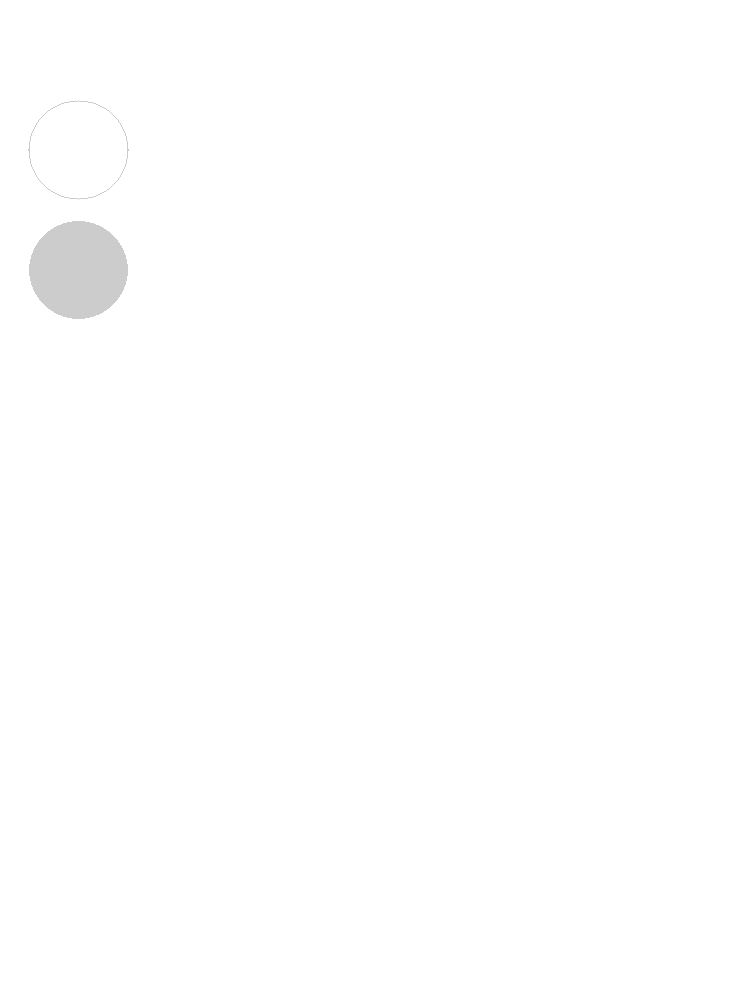
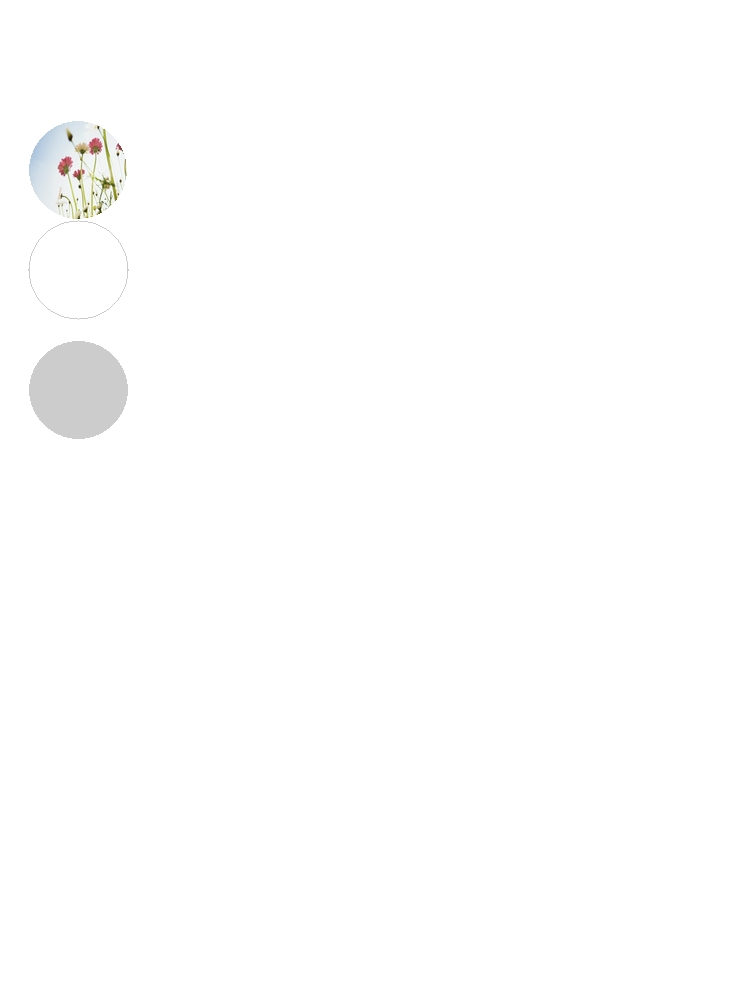
add image circle support

Changed region(s): [[0.0307, 0.093, 0.184, 0.465]]

diff --git a/examples/example3/example.html b/examples/example3/example.html
@@ -7,9 +7,11 @@
                 font-size: 15px;
             }
             img.project_logo {
-                width:100%;
-                margin-top:0;
-                margin-left:0;
+                width:100px;
+                height: 100px;
+                margin-top:20px;
+                border-radius: 350px;
+                border: 1px solid #ccc;
             }
             .content {
                 margin: 100px 28px;
@@ -31,6 +33,8 @@
     </head>
     <body>
         <div class="content">
+            <img src="http://pic17.nipic.com/20111021/8633866_210108284151_2.jpg" class="project_logo"/>
+
             <div class="circle"></div>
             <div class="bold-circle"></div>
         </div>

diff --git a/dom/dom2img.go b/dom/dom2img.go
@@ -45,71 +45,24 @@ func DrawChildren(dst *image.RGBA, pStyle *TagStyle, children []*Dom) {
 			case "img":
 				imgData := d.TagData.(ImageData)
 				draw.Draw(dst, dst.Bounds().Add(image.Pt(d.Inner.X1, d.Inner.Y1)), imgData.Img, image.ZP, draw.Over)
-			case "hr":
-				if calcStyle.BackgroundColor == "" {
-					calcStyle.BackgroundColor = "#000000"
-				}
-				if calcStyle.Height == "" {
-					calcStyle.Height = "1px"
-				}
-				fallthrough
+				DrawBoxRadius(dst, d.Container, calcStyle, pStyle)
 			default:
-				borderTopRadius := utils.GetIntSize(calcStyle.BorderRadius.Top)
-				borderRightRadius := utils.GetIntSize(calcStyle.BorderRadius.Right)
-				borderBottomRadius := utils.GetIntSize(calcStyle.BorderRadius.Bottom)
-				borderLeftRadius := utils.GetIntSize(calcStyle.BorderRadius.Left)
+				box := d.Container
 				if calcStyle.BackgroundColor != "" {
-					box := d.Container
 					borderColor := utils.GetColor(calcStyle.BackgroundColor)
 					for y := box.Y1; y <= box.Y2; y++ {
 						for x := box.X1; x <= box.X2; x++ {
 							dst.Set(x, y, borderColor)
 						}
 					}
-					col := color.RGBA{
-						R: uint8(255),
-						G: uint8(255),
-						B: uint8(255),
-						A: uint8(255),
-					}
-					for x := 0; x <= borderTopRadius; x++ {
-						for y := 0; y <= borderTopRadius; y++ {
-							if OutCircle(x, y, borderTopRadius) {
-								offsetX := borderTopRadius - x
-								offsetY := borderTopRadius - y
-								dst.Set(box.X1+offsetX, box.Y1+offsetY, col)
-							}
-						}
-					}
-					for x := 0; x <= borderRightRadius; x++ {
-						for y := 0; y <= borderRightRadius; y++ {
-							if OutCircle(x, y, borderRightRadius) {
-								offsetX := borderRightRadius - x
-								offsetY := borderRightRadius - y
-								dst.Set(box.X2-offsetX, box.Y1+offsetY, col)
-							}
-						}
-					}
-					for x := 0; x <= borderBottomRadius; x++ {
-						for y := 0; y <= borderBottomRadius; y++ {
-							if OutCircle(x, y, borderBottomRadius) {
-								offsetX := borderBottomRadius - x
-								offsetY := borderBottomRadius - y
-
-								dst.Set(box.X2-offsetX, box.Y2-offsetY, col)
-							}
-						}
-					}
-					for x := 0; x <= borderLeftRadius; x++ {
-						for y := 0; y <= borderLeftRadius; y++ {
-							if OutCircle(x, y, borderLeftRadius) {
-								offsetX := borderLeftRadius - x
-								offsetY := borderLeftRadius - y
-								dst.Set(box.X1+offsetX, box.Y2-offsetY, col)
-							}
-						}
-					}
 				}
+				DrawBoxRadius(dst, box, calcStyle, pStyle)
+
+				borderTopRadius := utils.GetIntSize(calcStyle.BorderRadius.Top)
+				borderRightRadius := utils.GetIntSize(calcStyle.BorderRadius.Right)
+				borderBottomRadius := utils.GetIntSize(calcStyle.BorderRadius.Bottom)
+				borderLeftRadius := utils.GetIntSize(calcStyle.BorderRadius.Left)
+
 				width := d.Container.X2 - d.Container.X1 + 1
 				height := d.Container.Y2 - d.Container.Y1 + 1
 				var halfSize int
@@ -130,7 +83,6 @@ func DrawChildren(dst *image.RGBA, pStyle *TagStyle, children []*Dom) {
 				if borderLeftRadius > halfSize {
 					borderLeftRadius = halfSize
 				}
-				box := d.Container
 				if calcStyle.BorderStyle.Top != "" && calcStyle.BorderWidth.Top != "" && calcStyle.BorderColor.Top != "" {
 					borderWidth := utils.GetIntSize(calcStyle.BorderWidth.Top)
 					borderColor := utils.GetColor(calcStyle.BorderColor.Top)
@@ -260,4 +212,88 @@ func OutCircle(x, y, radius int) bool {
 	yf := float64(y) + 0.5
 	rf := float64(radius)
 	return yf*yf+xf*xf > rf*rf
+}
+
+func DrawBoxRadius(dst *image.RGBA, box Rectangle, cStyle *TagStyle, pStyle *TagStyle) {
+	borderTopRadius := utils.GetIntSize(cStyle.BorderRadius.Top)
+	borderRightRadius := utils.GetIntSize(cStyle.BorderRadius.Right)
+	borderBottomRadius := utils.GetIntSize(cStyle.BorderRadius.Bottom)
+	borderLeftRadius := utils.GetIntSize(cStyle.BorderRadius.Left)
+
+	width := box.X2 - box.X1 + 1
+	height := box.Y2 - box.Y1 + 1
+	var halfSize int
+	if width > height {
+		halfSize = height / 2
+	} else {
+		halfSize = width / 2
+	}
+	if borderTopRadius > halfSize {
+		borderTopRadius = halfSize
+	}
+	if borderRightRadius > halfSize {
+		borderRightRadius = halfSize
+	}
+	if borderBottomRadius > halfSize {
+		borderBottomRadius = halfSize
+	}
+	if borderLeftRadius > halfSize {
+		borderLeftRadius = halfSize
+	}
+
+	col := color.RGBA{
+		R: uint8(255),
+		G: uint8(255),
+		B: uint8(255),
+		A: uint8(255),
+	}
+
+	if pStyle.BackgroundColor != "" {
+		pColor := utils.GetColor(pStyle.BackgroundColor)
+		r, g, b, a := pColor.RGBA()
+		col = color.RGBA{
+			R: uint8(r),
+			G: uint8(g),
+			B: uint8(b),
+			A: uint8(a),
+		}
+	}
+
+	for x := 0; x <= borderTopRadius; x++ {
+		for y := 0; y <= borderTopRadius; y++ {
+			if OutCircle(x, y, borderTopRadius) {
+				offsetX := borderTopRadius - x
+				offsetY := borderTopRadius - y
+				dst.Set(box.X1+offsetX, box.Y1+offsetY, col)
+			}
+		}
+	}
+	for x := 0; x <= borderRightRadius; x++ {
+		for y := 0; y <= borderRightRadius; y++ {
+			if OutCircle(x, y, borderRightRadius) {
+				offsetX := borderRightRadius - x
+				offsetY := borderRightRadius - y
+				dst.Set(box.X2-offsetX, box.Y1+offsetY, col)
+			}
+		}
+	}
+	for x := 0; x <= borderBottomRadius; x++ {
+		for y := 0; y <= borderBottomRadius; y++ {
+			if OutCircle(x, y, borderBottomRadius) {
+				offsetX := borderBottomRadius - x
+				offsetY := borderBottomRadius - y
+
+				dst.Set(box.X2-offsetX, box.Y2-offsetY, col)
+			}
+		}
+	}
+	for x := 0; x <= borderLeftRadius; x++ {
+		for y := 0; y <= borderLeftRadius; y++ {
+			if OutCircle(x, y, borderLeftRadius) {
+				offsetX := borderLeftRadius - x
+				offsetY := borderLeftRadius - y
+				dst.Set(box.X1+offsetX, box.Y2-offsetY, col)
+			}
+		}
+	}
 }

diff --git a/examples/test.go b/examples/test.go
@@ -31,7 +31,8 @@ func OutputImg() {
 }
 
 // For test
-func ExportJson(htmlPath string) {
+func ExportJson() {
+	htmlPath := "./example.html"
 	htmlBytes, err := ioutil.ReadFile(htmlPath)
 	if err != nil {
 		log.Fatal(err)
